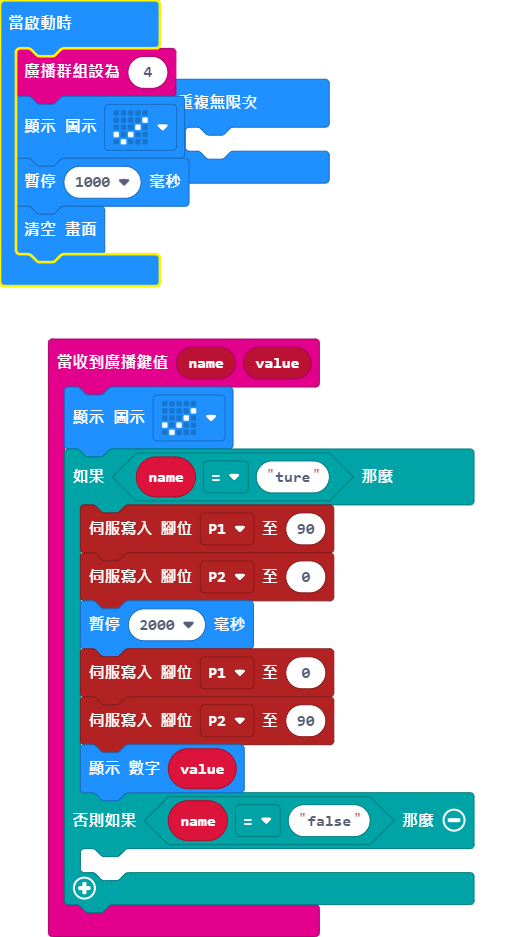
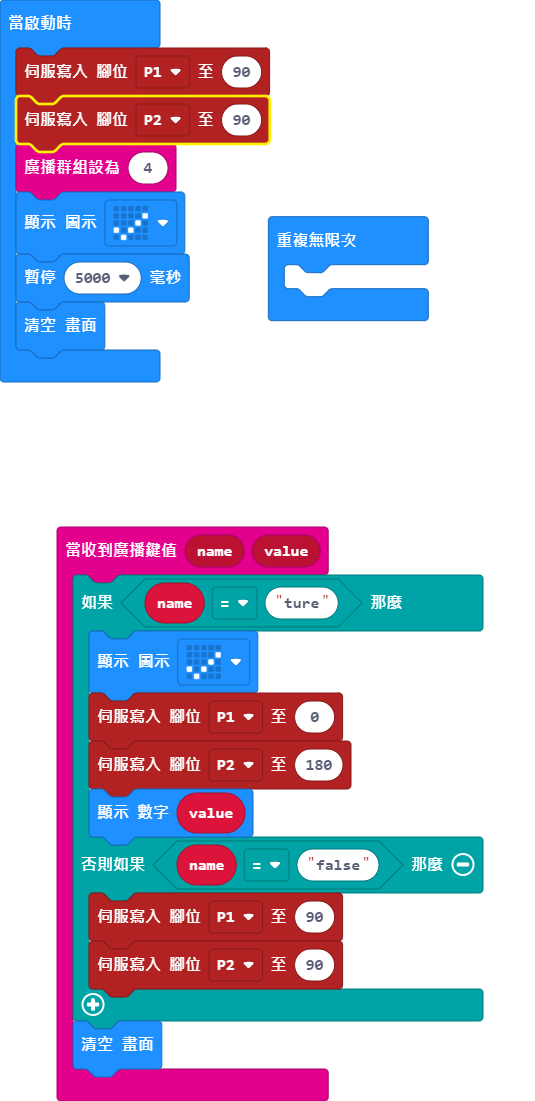
更新 main.blocks, main.ts

diff --git a/main.ts b/main.ts
@@ -1,19 +1,20 @@
 radio.onReceivedValue(function (name, value) {
-    basic.showIcon(IconNames.Yes)
     if (name == "ture") {
-        pins.servoWritePin(AnalogPin.P1, 90)
-        pins.servoWritePin(AnalogPin.P2, 0)
-        basic.pause(2000)
+        basic.showIcon(IconNames.Yes)
         pins.servoWritePin(AnalogPin.P1, 0)
-        pins.servoWritePin(AnalogPin.P2, 90)
+        pins.servoWritePin(AnalogPin.P2, 180)
         basic.showNumber(value)
     } else if (name == "false") {
-    	
+        pins.servoWritePin(AnalogPin.P1, 90)
+        pins.servoWritePin(AnalogPin.P2, 90)
     }
+    basic.clearScreen()
 })
+pins.servoWritePin(AnalogPin.P1, 90)
+pins.servoWritePin(AnalogPin.P2, 90)
 radio.setGroup(4)
 basic.showIcon(IconNames.Yes)
-basic.pause(1000)
+basic.pause(5000)
 basic.clearScreen()
 basic.forever(function () {
 	
